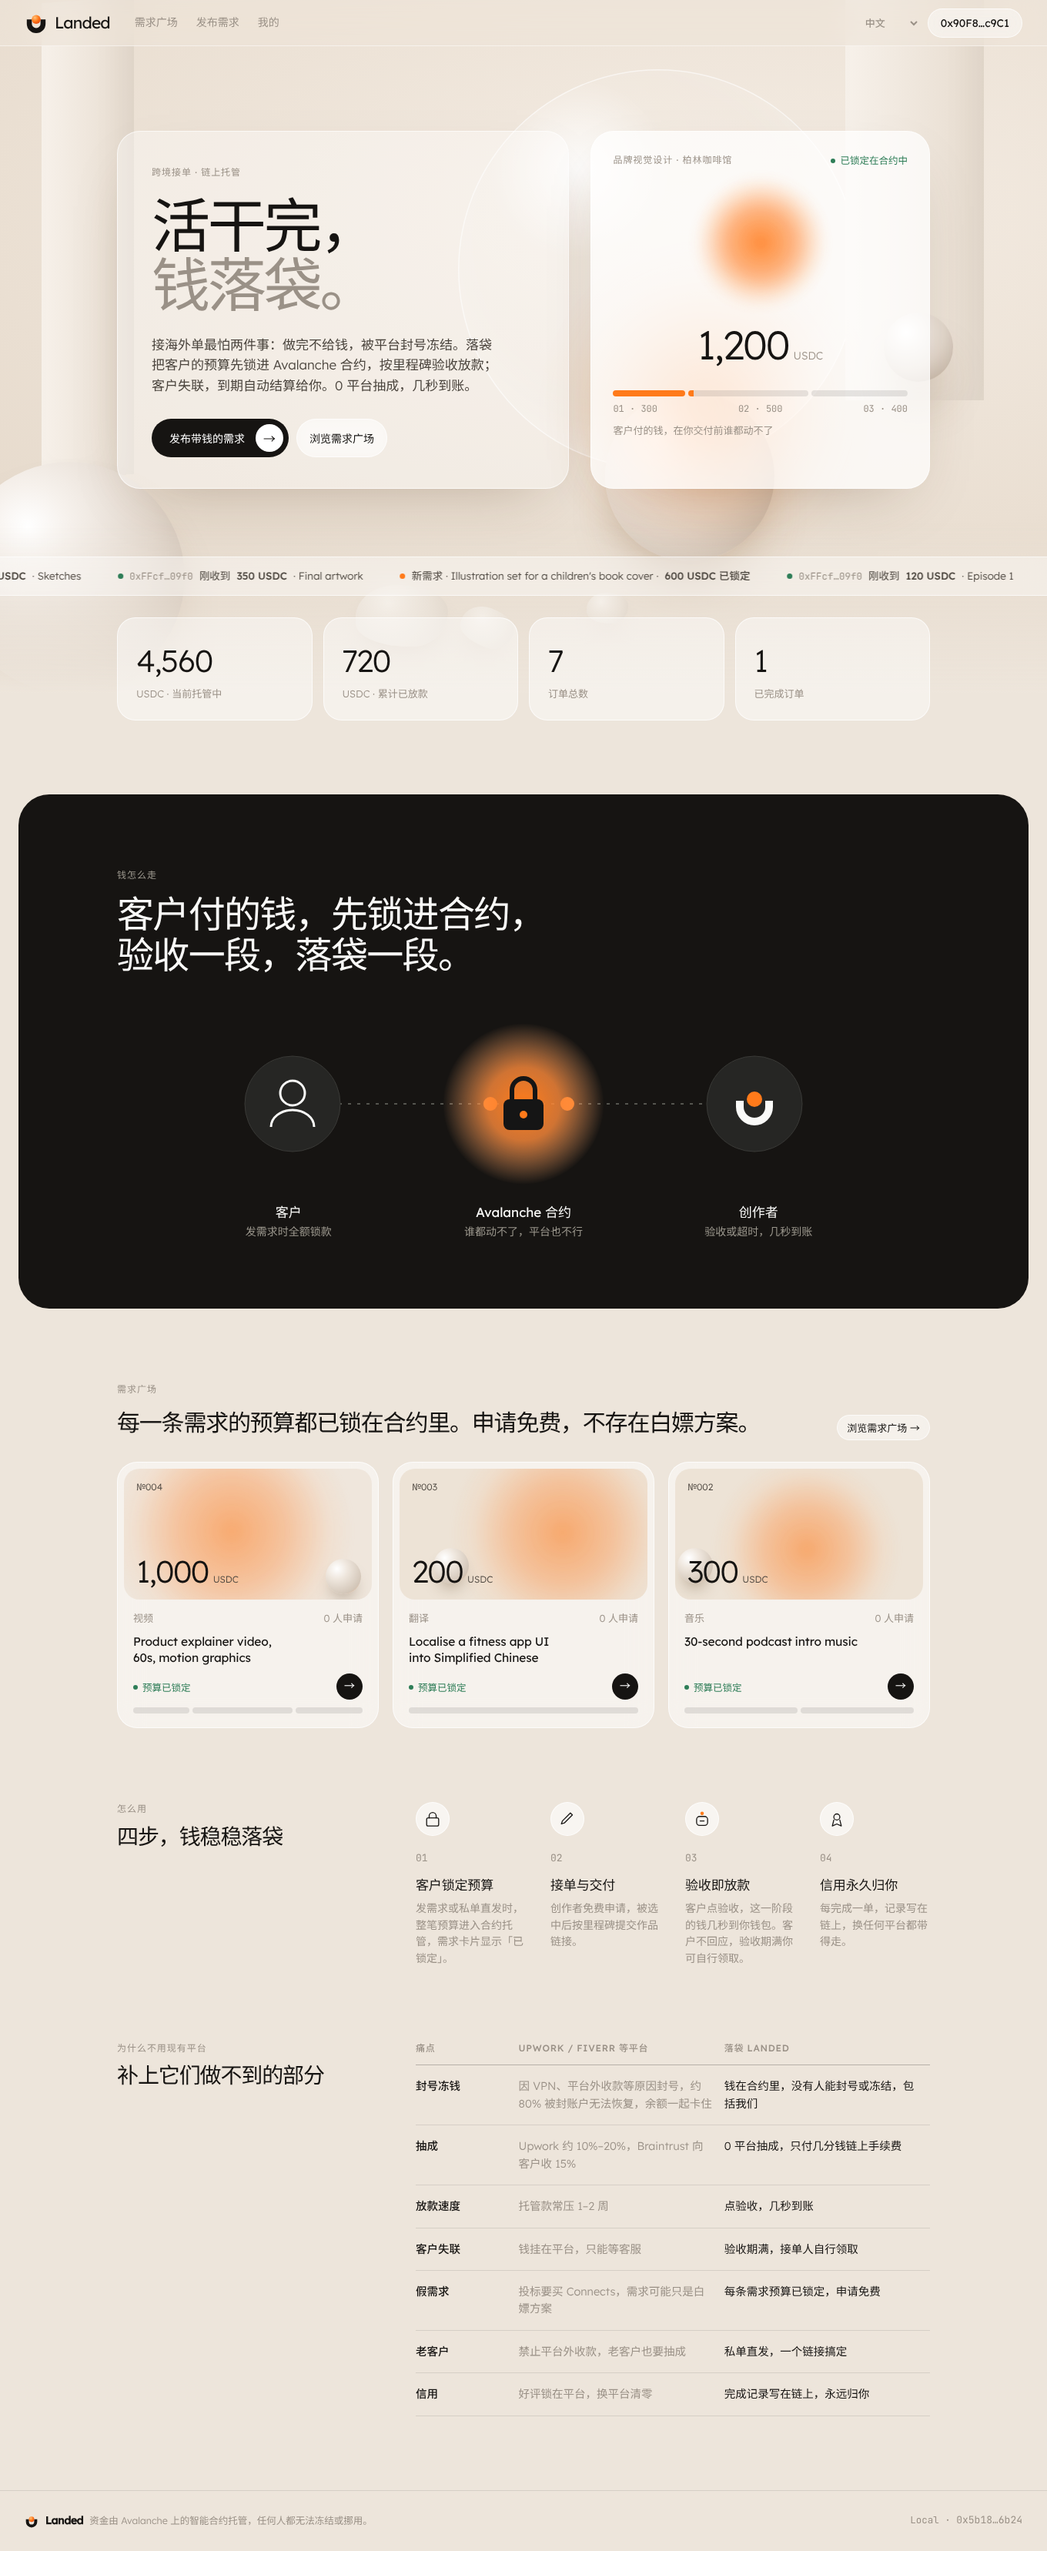
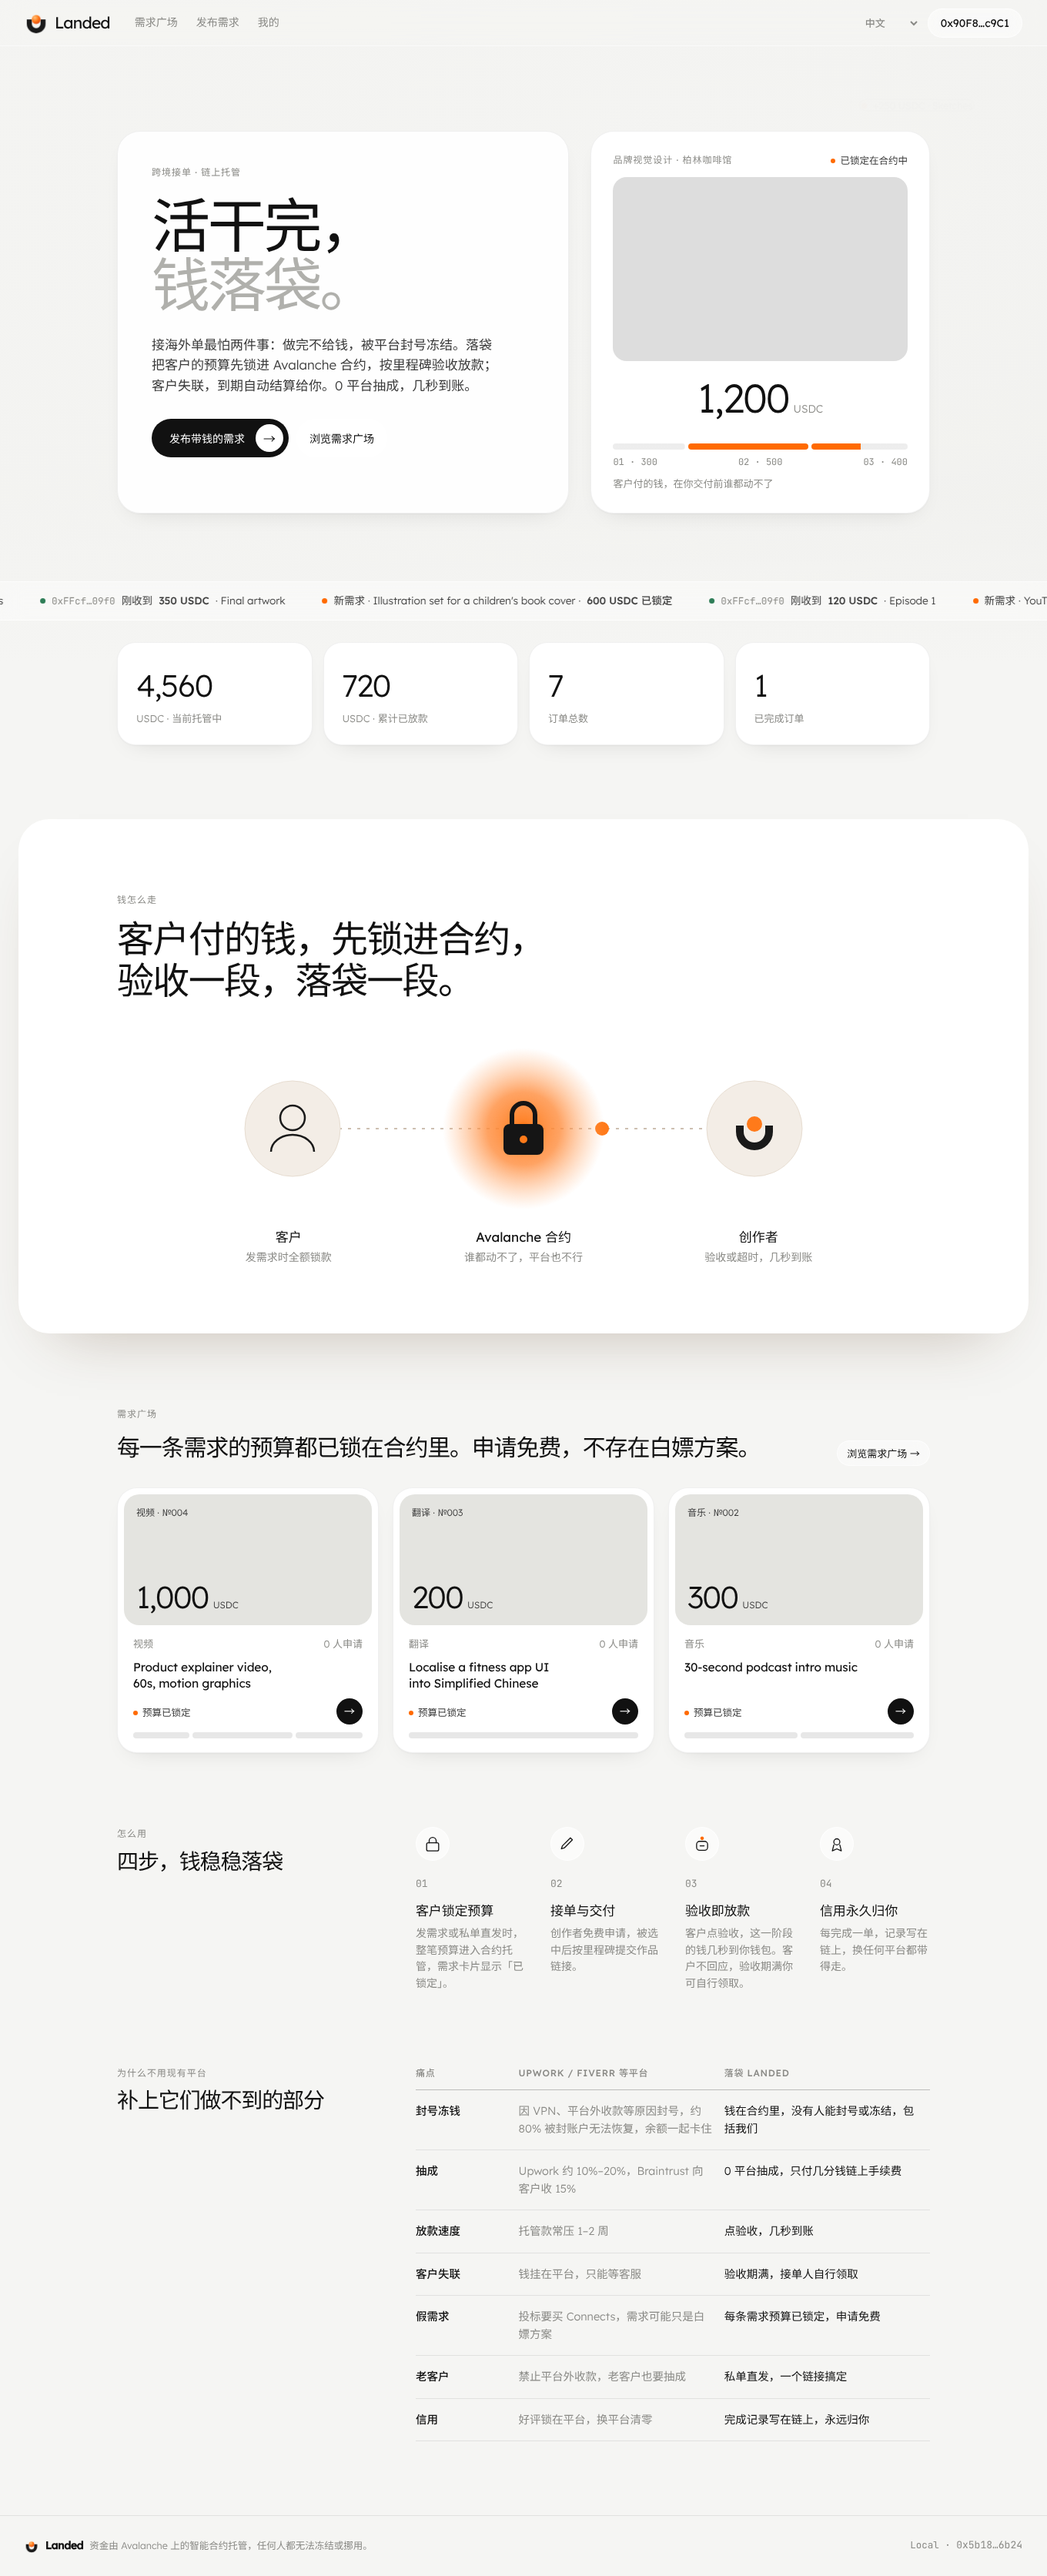
Neutral white theme, README synced with custom review window and new screenshots

diff --git a/public/styles.css b/public/styles.css
@@ -290,9 +290,9 @@ h1, h2, .big, .ha-amt, .fact .v, .jc-amt { font-family: "Inter Tight", var(--san
 }
 
 /* ---------- v5 brand: Touchdown (deep green + lime) ---------- */
-:root { --bg: #F5F0E6; --bg-2: #ECE5D6; --ink: #0F1F1A; --ink-2: #33433D; --muted: #7D867F; --line: #E0D8C8; --accent: #0E3B2E; --lime: #D9F24B; --ok: #1E7A4F; }
+:root { --bg: #F5F5F3; --bg-2: #ECECE9; --ink: #0F1F1A; --ink-2: #33433D; --muted: #7D867F; --line: #E2E2DF; --accent: #0E3B2E; --lime: #D9F24B; --ok: #1E7A4F; }
 body { background: var(--bg); }
-.top { background: rgba(245, 240, 230, .88); }
+.top { background: rgba(245,245,243,.85); }
 .mark { width: 26px; height: 26px; }
 .mark .traj { fill: none; stroke: currentColor; stroke-opacity: .35; stroke-width: 1.4; stroke-dasharray: 1 2.6; stroke-linecap: round; }
 .mark .ground { stroke: currentColor; stroke-width: 2.4; stroke-linecap: round; }
@@ -343,8 +343,8 @@ html, body { overflow-x: hidden; }
 #submit { height: auto; min-height: 0; padding: 13px 16px; font-size: 15px; }
 
 /* ---------- v6 brand: Slot (cream + black + bright orange) ---------- */
-:root { --bg: #F2EEE6; --bg-2: #E9E3D7; --ink: #151515; --ink-2: #3B3934; --muted: #8A857A; --line: #DDD6C8; --accent: #151515; --lime: #FF5A1F; --orange: #FF5A1F; --ok: #1F7A4D; }
-.top { background: rgba(242, 238, 230, .9); }
+:root { --bg: #F5F5F3; --bg-2: #EAEAE7; --ink: #151515; --ink-2: #3B3934; --muted: #8A857A; --line: #DEDEDB; --accent: #151515; --lime: #FF5A1F; --orange: #FF5A1F; --ok: #1F7A4D; }
+.top { background: rgba(245,245,243,.85); }
 .mark .box { fill: var(--ink); }
 .mark .slot { fill: var(--bg); }
 .mark .coin { fill: var(--orange); stroke: none; transform-origin: 12px 6px; }
@@ -360,7 +360,7 @@ html, body { overflow-x: hidden; }
 .pocket-art .coins circle { fill: var(--orange); stroke: none; }
 @keyframes coin { 0% { transform: translateY(-20px); opacity: 0; } 15% { opacity: 1; } 50% { transform: translateY(80px); opacity: 1; } 56%,100% { transform: translateY(80px); opacity: 0; } }
 .flow-sec { background: #151515; }
-.flow-labels span { color: #9a968c; }
+.flow-labels span { color: #999995; }
 .tag.open .d, .tk .d { background: var(--orange); }
 .segs i.paid, .ms.paid .node { background: var(--ink); border-color: var(--ink); }
 .ms.paid .node { color: var(--orange); }
@@ -376,14 +376,14 @@ html, body { overflow-x: hidden; }
 .d-cover .cover { height: 220px; }
 .btn { height: auto; min-height: 0; }
 .gen { position: relative; line-height: 0; background: #151515; }
-.gen-id { position: absolute; left: 12px; bottom: 10px; line-height: 1; font: 500 11px var(--mono); color: #151515; background: #F2EEE6; padding: 4px 6px; border-radius: 4px; }
+.gen-id { position: absolute; left: 12px; bottom: 10px; line-height: 1; font: 500 11px var(--mono); color: #151515; background: #F5F5F3; padding: 4px 6px; border-radius: 4px; }
 .hero-gen { border-radius: 12px; overflow: hidden; margin: 18px 0 16px; line-height: 0; }
 .hero-gen .hg { width: 100%; height: auto; display: block; }
 .hero-gen .hg g { animation: fi .5s ease both; }
 .d-cover .cover { height: 200px; }
 
 /* ---------- v7: soft still-life, frosted glass, orange orb ---------- */
-:root { --bg: #EDE5DB; --bg-2: #E6DCD0; --ink: #161412; --ink-2: #4A443D; --muted: #9A9187; --line: rgba(22,20,18,.10); --accent: #161412; --orange: #FF7A1A; --lime: #FF7A1A; --ok: #2E7D57;
+:root { --bg: #F5F5F3; --bg-2: #ECECE9; --ink: #161412; --ink-2: #4A443D; --muted: #93938F; --line: rgba(22,20,18,.10); --accent: #161412; --orange: #FF7A1A; --lime: #FF7A1A; --ok: #2E7D57;
   --sans: "Lexend", "Noto Sans SC", "PingFang SC", system-ui, sans-serif; }
 body { font-family: var(--sans); font-weight: 300; background: var(--bg); }
 h1, h2, h3, .big, .ha-amt, .fact .v, .jc-amt, .wm { font-family: "Lexend", "Noto Sans SC", sans-serif; }
@@ -391,7 +391,7 @@ h1, h2 { font-weight: 300 !important; letter-spacing: -0.04em; }
 h3, .jc-t, .item .t, .ms h4, .flow-labels b { font-weight: 400; }
 b, strong { font-weight: 500; }
 #app { position: relative; }
-.top { background: rgba(237,229,219,.6); backdrop-filter: blur(20px) saturate(1.3); border-bottom: 1px solid rgba(255,255,255,.5); }
+.top { background: rgba(245,245,243,.6); backdrop-filter: blur(20px) saturate(1.3); border-bottom: 1px solid rgba(255,255,255,.5); }
 .mark { width: 30px; height: 30px; }
 .mark .cup { fill: var(--ink); }
 .brand:hover .mark circle { animation: drop2 .6s cubic-bezier(.5,0,.6,1.5); transform-origin: 16px 12px; }
@@ -405,19 +405,19 @@ b, strong { font-weight: 500; }
 .btn.pill { padding: 6px 6px 6px 22px; gap: 14px; }
 .btn.pill .arr { width: 36px; height: 36px; border-radius: 50%; background: #fff; color: var(--ink); display: grid; place-items: center; font-size: 16px; }
 /* scene */
-.scene { position: absolute; inset: -60px 0 auto 0; height: 900px; overflow: hidden; z-index: 0; pointer-events: none; background: radial-gradient(120% 80% at 70% 30%, #F4ECE3 0%, #EADFD2 60%, #E3D6C7 100%); }
+.scene { position: absolute; inset: -60px 0 auto 0; height: 900px; overflow: hidden; z-index: 0; pointer-events: none; background: radial-gradient(120% 80% at 70% 30%, #F2F2F0 0%, #EBEBE8 60%, #E2E2DF 100%); }
 .scene::after { content: ""; position: absolute; left: 0; right: 0; bottom: 0; height: 220px; background: linear-gradient(transparent, var(--bg)); }
 .scene i { position: absolute; display: block; }
-.s-block { background: linear-gradient(90deg, #F7F1EA, #E7DCCF); box-shadow: inset -20px 0 40px rgba(0,0,0,.04); }
+.s-block { background: linear-gradient(90deg, #F2F2F0, #E6E6E3); box-shadow: inset -20px 0 40px rgba(0,0,0,.04); }
 .s-block.b1 { left: 4%; top: 0; width: 120px; height: 620px; transform: skewY(-4deg); }
 .s-block.b2 { right: 6%; top: -40px; width: 180px; height: 560px; }
 .s-dome { right: 18%; top: 90px; width: 520px; height: 520px; border-radius: 50%; background: radial-gradient(circle at 30% 25%, rgba(255,255,255,.85), rgba(255,255,255,.08) 22%, rgba(255,255,255,.02) 60%, rgba(255,255,255,.25) 100%); box-shadow: inset 0 0 0 1.5px rgba(255,255,255,.55), inset -30px -40px 80px rgba(255,255,255,.25); }
-.s-pearl { border-radius: 50%; background: radial-gradient(circle at 32% 28%, #fff 0%, #F6F1EC 18%, #E2D7CC 55%, #CDBFB1 78%, #FFB27A 96%); box-shadow: 0 40px 60px -20px rgba(120,80,40,.35); }
+.s-pearl { border-radius: 50%; background: radial-gradient(circle at 32% 28%, #fff 0%, #F6F1EC 18%, #E2E2DF 55%, #CDCDC9 78%, #FFB27A 96%); box-shadow: 0 40px 60px -20px rgba(120,80,40,.35); }
 .s-pearl.p1 { right: 26%; top: 520px; width: 220px; height: 220px; animation: float 7s ease-in-out infinite; }
 .s-pearl.p2 { left: -60px; top: 600px; width: 300px; height: 300px; }
 .s-pearl.p3 { right: 9%; top: 420px; width: 90px; height: 90px; animation: float 5s ease-in-out infinite reverse; }
 .s-glow { right: 20%; top: 360px; width: 340px; height: 340px; border-radius: 50%; background: radial-gradient(circle, rgba(255,122,26,.75), rgba(255,160,90,.35) 40%, transparent 70%); filter: blur(30px); animation: breathe 6s ease-in-out infinite; }
-.s-stone { border-radius: 46% 54% 40% 60% / 55% 45% 60% 40%; background: radial-gradient(circle at 35% 30%, #FBF8F4, #E6DDD2 60%, #CFC3B5); box-shadow: 0 18px 30px -12px rgba(90,60,30,.3); }
+.s-stone { border-radius: 46% 54% 40% 60% / 55% 45% 60% 40%; background: radial-gradient(circle at 35% 30%, #FBF8F4, #E6E6E3 60%, #D0D0CC); box-shadow: 0 18px 30px -12px rgba(90,60,30,.3); }
 .s-stone.t1 { left: 34%; top: 760px; width: 120px; height: 80px; }
 .s-stone.t2 { left: 44%; top: 790px; width: 70px; height: 50px; transform: rotate(20deg); }
 .s-stone.t3 { right: 40%; top: 770px; width: 54px; height: 40px; }
@@ -455,7 +455,7 @@ b, strong { font-weight: 500; }
 .jcard:hover { box-shadow: 0 30px 60px -30px rgba(80,50,20,.4); }
 .orb-cover { position: relative; height: 170px; border-radius: 20px; overflow: hidden; }
 .orb-cover .orb { position: absolute; aspect-ratio: 1; transform: translate(-50%, -50%); border-radius: 50%; background: radial-gradient(circle, #FF7A1A 0%, rgba(255,140,60,.7) 32%, rgba(255,190,140,.25) 58%, transparent 72%); filter: blur(4px); }
-.orb-cover .pearl { position: absolute; width: 46px; height: 46px; border-radius: 50%; background: radial-gradient(circle at 32% 28%, #fff, #EFE7DE 30%, #D2C5B7 75%, #FFB27A 98%); box-shadow: 0 14px 20px -8px rgba(90,60,30,.35); }
+.orb-cover .pearl { position: absolute; width: 46px; height: 46px; border-radius: 50%; background: radial-gradient(circle at 32% 28%, #fff, #F5F5F3 30%, #D8D8D4 75%, #FFB27A 98%); box-shadow: 0 14px 20px -8px rgba(90,60,30,.35); }
 .oc-id { position: absolute; left: 16px; top: 14px; font: 300 12px var(--sans); color: var(--ink-2); }
 .oc-amt { position: absolute; left: 16px; bottom: 12px; font: 300 40px "Lexend", sans-serif; letter-spacing: -.04em; color: var(--ink); }
 .oc-amt small { font-size: 12px; margin-left: 6px; color: var(--ink-2); letter-spacing: 0; }
@@ -476,7 +476,7 @@ b, strong { font-weight: 500; }
 input, textarea, select { border-radius: 16px; border-color: rgba(255,255,255,.8); }
 .seg { border-radius: 999px; } .seg button { border-radius: 999px; }
 .seg button.on, .pick button.on { background: var(--ink); color: #fff; }
-.tabbar { background: rgba(237,229,219,.7); }
+.tabbar { background: rgba(245,245,243,.85); }
 .tabbar .tb-main .ti { background: var(--ink); color: var(--orange); }
 .compare th { border-bottom-color: rgba(22,20,18,.25); }
 .foot .mark { width: 18px; height: 18px; }
@@ -492,11 +492,11 @@ input, textarea, select { border-radius: 16px; border-color: rgba(255,255,255,.8
 .btn.block { padding: 12px 18px; }
 
 /* ---------- v8: palette tuned to reference (white glass, sand, vivid orange) ---------- */
-:root { --bg: #EFE7DE; --ink: #1A1A1A; --ink-2: #57514A; --muted: #A39A90; --orange: #FF6A00; }
-.scene { background: radial-gradient(120% 90% at 65% 25%, #F7F1EA 0%, #EEE4D9 55%, #E6D9CB 100%); }
+:root { --bg: #F5F5F3; --ink: #1A1A1A; --ink-2: #57514A; --muted: #9E9E9A; --orange: #FF6A00; }
+.scene { background: radial-gradient(120% 90% at 65% 25%, #F2F2F0 0%, #EDEDEA 55%, #E4E4E1 100%); }
 .glass, .hero-art, .jcard, .panel, .fact, .fact + .fact { background: rgba(255,255,255,.62); border-color: rgba(255,255,255,.9); }
 .hero-art { background: #fff; }
-.hero h1 .accent { color: #B5ACA2; }
+.hero h1 .accent { color: #B0B0AC; }
 .hero-orb span, .orb-cover .orb { background: radial-gradient(circle, #FF6A00 0%, rgba(255,120,30,.8) 30%, rgba(255,170,110,.3) 58%, transparent 72%); }
 .flow-sec { background: #fff; color: var(--ink); box-shadow: 0 40px 80px -50px rgba(80,50,20,.35); }
 .flow-sec .label { color: var(--muted) !important; }
@@ -511,7 +511,7 @@ input, textarea, select { border-radius: 16px; border-color: rgba(255,255,255,.8
 .segs.anim i { background-image: linear-gradient(90deg, var(--orange) 50%, rgba(26,26,26,.08) 50%); }
 .ms.paid h4, .ms.paid .amt { color: var(--ink-2); }
 .mark .cup { fill: #1A1A1A; }
-.orb-cover { background: linear-gradient(160deg, #F6F0E9, #EADFD3); }
+.orb-cover { background: linear-gradient(160deg, #F7F7F5, #ECECE9); }
 .orb-cover .sc { position: absolute; inset: 0; width: 100%; height: 100%; }
 .orb-cover .sc { transform: translateX(12%); }
 .sc-glass { fill: rgba(255,255,255,.7); stroke: rgba(255,255,255,.95); stroke-width: 1.5; filter: drop-shadow(0 10px 14px rgba(90,60,30,.18)); }
@@ -568,17 +568,17 @@ input, textarea, select { border-radius: 16px; border-color: rgba(255,255,255,.8
 .hero-orb.photo img{width:100%;height:100%;object-fit:cover;display:block}
 .hero-photo{mask-image:none;-webkit-mask-image:none;opacity:.9}
 .orb-cover.photo .sc,.s-dome,.s-block,.s-pearl,.s-stone,.s-glow,.pocket-art{display:none!important}
-.orb-cover.photo{background:#d9d2c8}
+.orb-cover.photo{background:#E4E4E0}
 /* v12: full-bleed scene */
 .scene{inset:-60px 0 auto 0;height:860px}
 .hero-photo{left:0!important;right:0!important;width:100%!important;height:100%;object-fit:cover;object-position:center 40%;opacity:1!important;mask-image:none!important;-webkit-mask-image:none!important}
-.scene::before{content:"";position:absolute;inset:0;z-index:1;background:linear-gradient(90deg,rgba(239,231,222,.55),rgba(239,231,222,.1) 55%,rgba(0,0,0,.05))}
+.scene::before{content:"";position:absolute;inset:0;z-index:1;background:linear-gradient(90deg,rgba(245,245,243,.55),rgba(245,245,243,.1) 55%,rgba(0,0,0,.05))}
 .scene::after{z-index:2}
 .pings{z-index:3}
-@media (max-width:860px){.scene{height:720px}.hero-photo{opacity:1!important}.scene::before{background:linear-gradient(180deg,rgba(239,231,222,.35),rgba(239,231,222,.7))}}
+@media (max-width:860px){.scene{height:720px}.hero-photo{opacity:1!important}.scene::before{background:linear-gradient(180deg,rgba(245,245,243,.35),rgba(245,245,243,.7))}}
 /* v13: calmer background, readable copy */
 .hero-photo{filter:blur(14px) saturate(.85);transform:scale(1.08)}
-.scene::before{background:linear-gradient(90deg,rgba(239,231,222,.75),rgba(239,231,222,.45))!important}
+.scene::before{background:linear-gradient(90deg,rgba(245,245,243,.75),rgba(245,245,243,.45))!important}
 .glass.hero-copy{background:rgba(255,255,255,.88)!important;backdrop-filter:blur(20px);-webkit-backdrop-filter:blur(20px)}
 .hero-copy h1 .mute,.hero-copy h1 em,.hero-copy h1 span{color:#6B625A}
 .hero-copy .lead{color:#2A2A2A}
@@ -587,6 +587,13 @@ input, textarea, select { border-radius: 16px; border-color: rgba(255,255,255,.8
 #win-pick button{white-space:nowrap}
 #win-pick button[data-v=custom]:not(.on){color:#FF6A00}
 .win-custom{padding:14px 16px;background:#fff;border-radius:18px;max-width:640px;box-shadow:0 8px 24px -16px rgba(60,40,20,.25)}
-.win-custom input{width:110px;font-size:18px;font-weight:500;background:#F6F1EB}
+.win-custom input{width:110px;font-size:18px;font-weight:500;background:#FFFFFF}
 .win-custom .seg{margin:0}
 @media(max-width:600px){#win-pick{grid-template-columns:repeat(3,1fr);border-radius:20px}}
+/* v15: neutral cool-white, no beige */
+:root{--bg:#F5F5F3;--bg-2:#ECECE9;--ink:#111;--ink-2:#3A3A3A;--muted:#8A8A86;--line:rgba(0,0,0,.08)}
+body{background:var(--bg)}
+.glass,.hero-art,.jcard,.fact,.panel{background:#fff!important;backdrop-filter:none!important;-webkit-backdrop-filter:none!important;border:1px solid rgba(0,0,0,.06)!important;box-shadow:0 1px 2px rgba(0,0,0,.04),0 12px 32px -20px rgba(0,0,0,.18)!important}
+.hero-photo{filter:blur(18px) saturate(.6) brightness(1.05)}
+.scene::before{background:linear-gradient(90deg,rgba(245,245,243,.85),rgba(245,245,243,.6))!important}
+.hero-copy h1 span{color:#9A9A96}

diff --git a/README.md b/README.md
@@ -12,6 +12,8 @@
 
 ![首页](docs/home.png)
 
+![发布需求：自定义验收期](docs/new-job.png)
+
 ## 要解决的问题
 
 国内有大量设计师、开发者、插画师、编曲、剪辑、译者在接海外单。他们面对的不是"找不到客户"，而是"钱能不能安全到手"：
@@ -51,7 +53,7 @@ Demo app: https://minusplus2025.github.io/landed/ (switch your wallet to Fuji; u
 - **需求广场**：客户发布"带钱的需求"，整笔预算进入合约托管；创作者免费申请，客户从申请人中选定。
 - **私单直发**：已经谈好的单，一步完成锁款和指定接单人，把链接发给对方即可。
 - **里程碑托管**：最多 10 个阶段，逐个交付、验收、放款。
-- **超时自动结算**：交付后客户在验收期内不回应，接单人可自行领取该阶段款项。
+- **超时自动结算**：交付后客户在验收期内不回应，接单人可自行领取该阶段款项。验收期由客户发单时自选：1 / 3 / 7 / 14 天，或自定义 1 小时～30 天。
 - **争议仲裁**：任一方可发起争议，冻结剩余款项，由中立仲裁人按比例裁决。
 - **链上信用主页**：完成订单、累计收入、按时付清率、争议次数，公开可查。
 - **多语言**：中文、English、Español、日本語，按浏览器语言自动选择。
